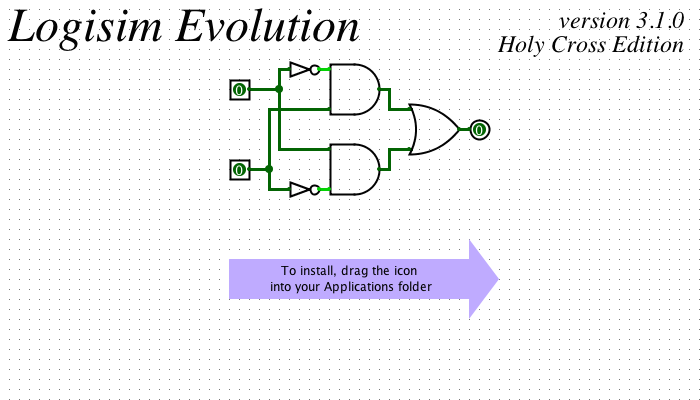
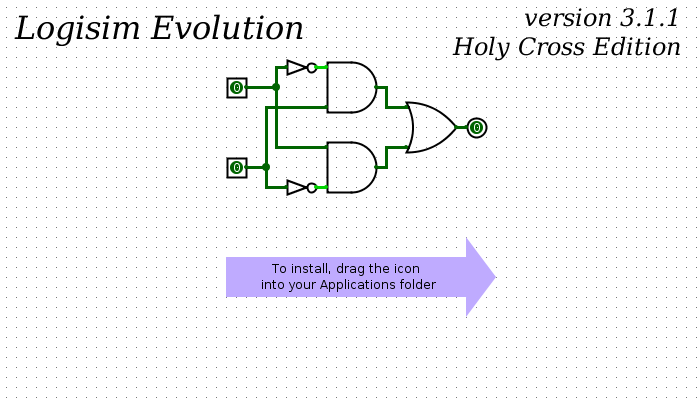
Bump version to 3.1.1 HC

diff --git a/src/com/cburch/logisim/Main.java b/src/com/cburch/logisim/Main.java
@@ -67,7 +67,7 @@ public class Main {
 
 	final static Logger logger = LoggerFactory.getLogger(Main.class);
 
-	public static final LogisimVersion VERSION = LogisimVersion.get(3, 1, 0, "HC");
+	public static final LogisimVersion VERSION = LogisimVersion.get(3, 1, 1, "HC");
 	public static final String VERSION_NAME = VERSION.toString();
 	public static final int COPYRIGHT_YEAR = 2017;
 

diff --git a/README.md b/README.md
@@ -3,14 +3,14 @@ logisim-evolution (Holy Cross Edition)
 
 You can get the latest version of Logisim-evolution (Holy Cross Edition) here:
 
-[![Download for Windows](https://raw.githubusercontent.com/kevinawalsh/logisim-evolution/holycross/images/download-windows.jpg)](http://mathcs.holycross.edu/~kwalsh/logisim-evolution-3.1.0hc.exe) 
-[![Download for Mac](https://raw.githubusercontent.com/kevinawalsh/logisim-evolution/holycross/images/download-mac.jpg)](http://mathcs.holycross.edu/~kwalsh/logisim-evolution-3.1.0hc.dmg)
-[![Download for Linux](https://raw.githubusercontent.com/kevinawalsh/logisim-evolution/holycross/images/download-linux.jpg)](http://mathcs.holycross.edu/~kwalsh/logisim-evolution-3.1.0hc.jar)
+[![Download for Windows](https://raw.githubusercontent.com/kevinawalsh/logisim-evolution/holycross/images/download-windows.jpg)](http://mathcs.holycross.edu/~kwalsh/logisim-evolution-3.1.1hc.exe) 
+[![Download for Mac](https://raw.githubusercontent.com/kevinawalsh/logisim-evolution/holycross/images/download-mac.jpg)](http://mathcs.holycross.edu/~kwalsh/logisim-evolution-3.1.1hc.dmg)
+[![Download for Linux](https://raw.githubusercontent.com/kevinawalsh/logisim-evolution/holycross/images/download-linux.jpg)](http://mathcs.holycross.edu/~kwalsh/logisim-evolution-3.1.1hc.jar)
 
 Windows and Mac versions will work only on Windows or Mac. The
 platform-independent JAR file should work on any platform. To run the JAR file,
 open a command line (or Mac Terminal or Windows CMD.exe
-prompt) and type `java -jar logisim-evolution-3.1.0hc.jar` from within the
+prompt) and type `java -jar logisim-evolution-3.1.1hc.jar` from within the
 directory where you have downloaded the JAR file.
 
 
